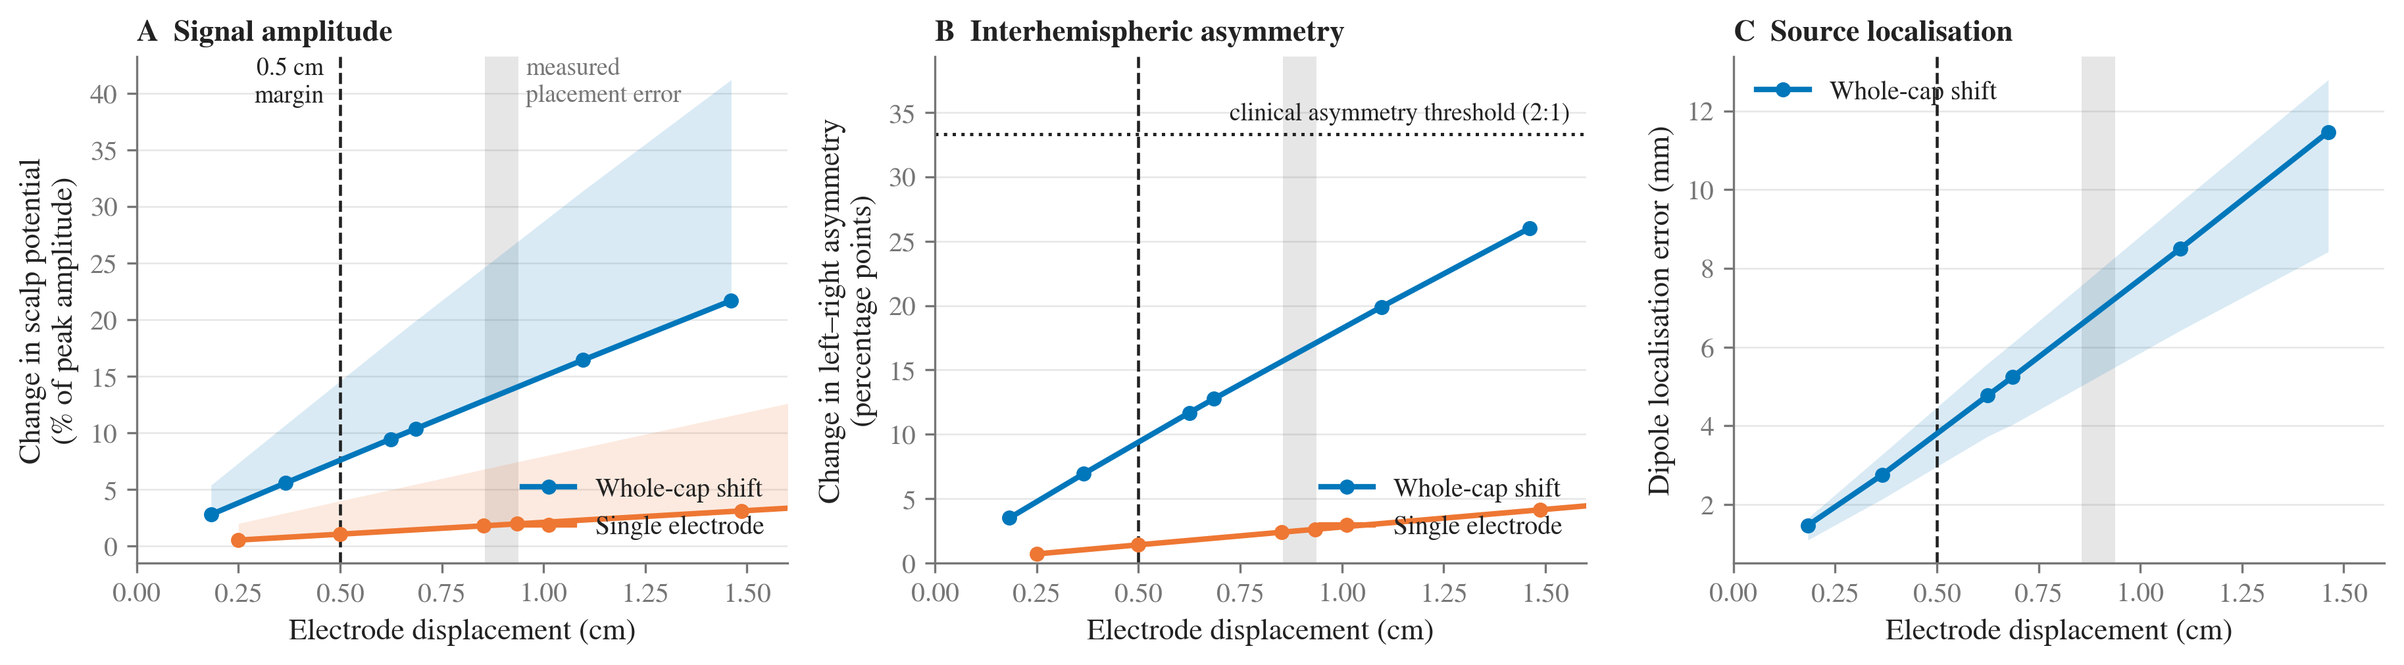
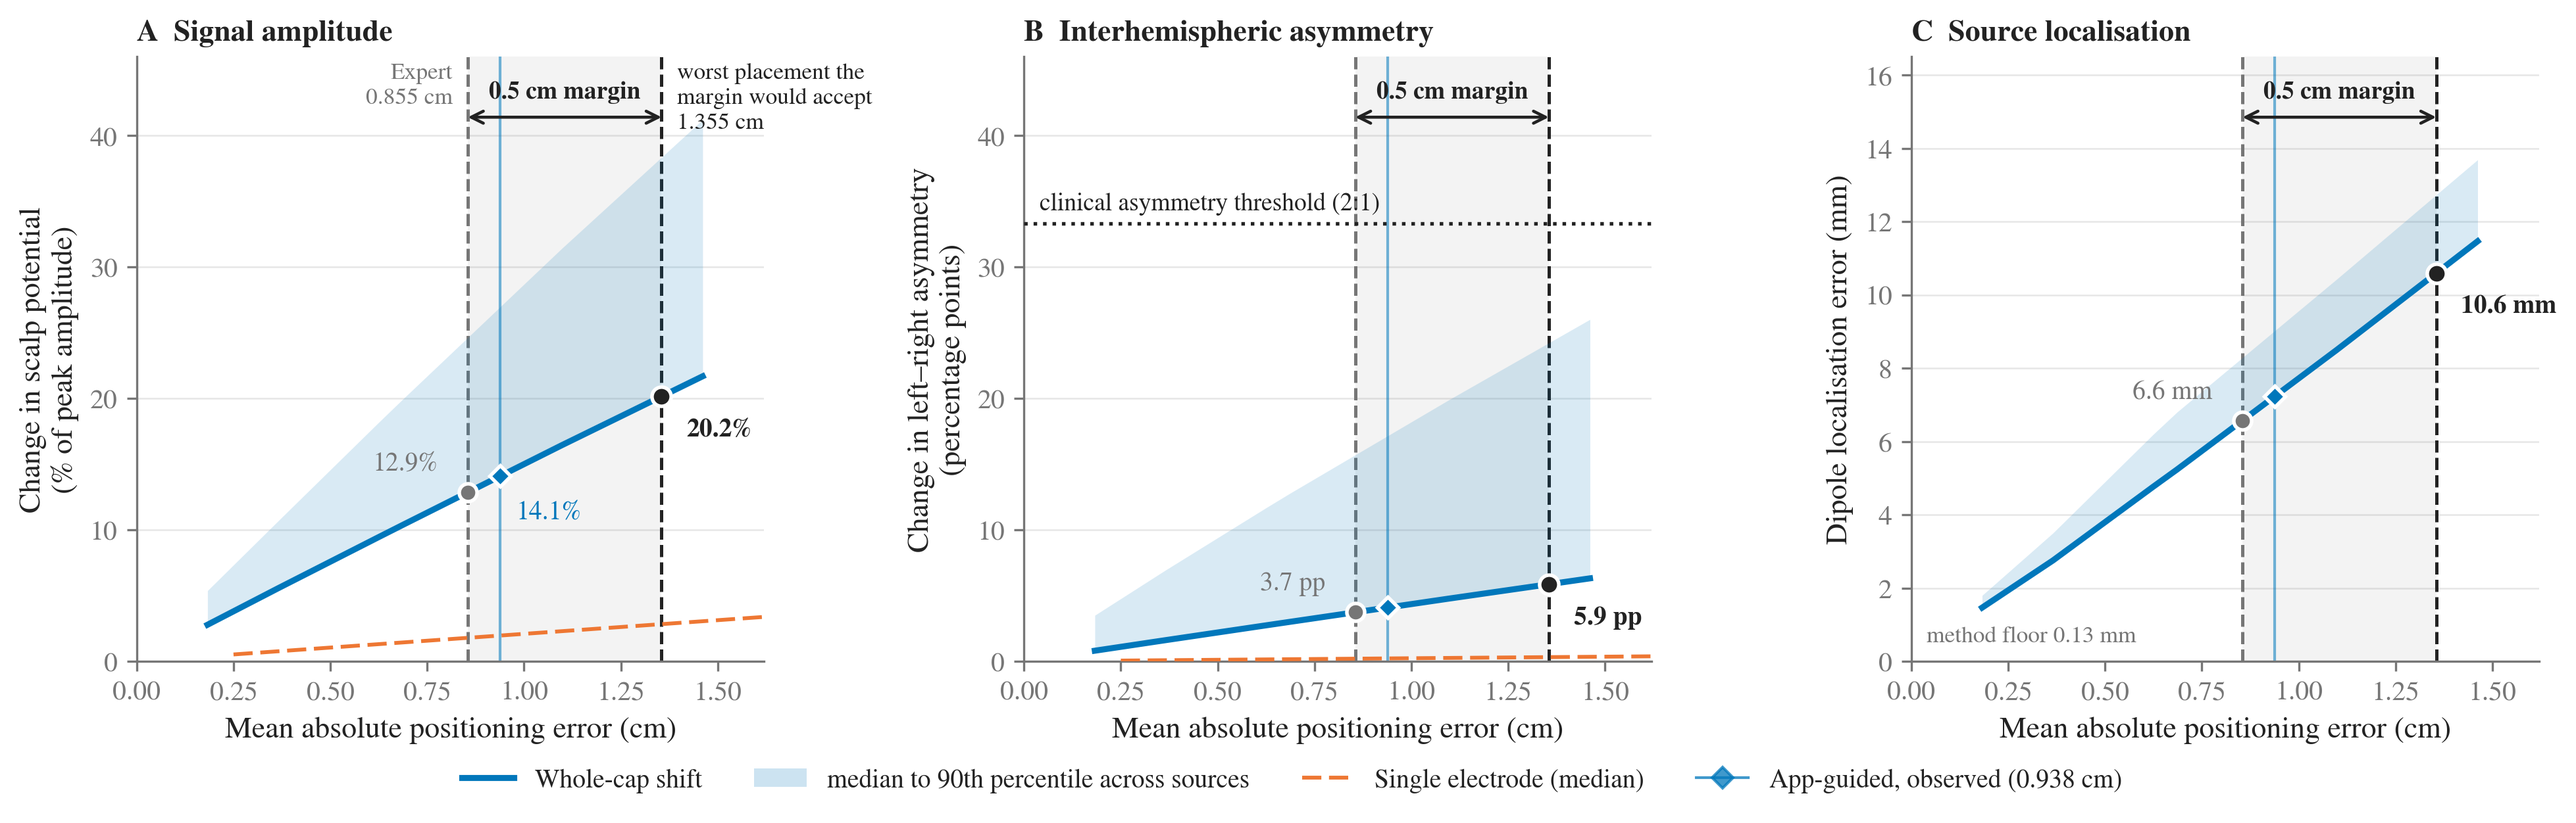
Update forward-model supplementary analysis to margin-sensitivity framing
report.py now evaluates the margin as a distance from the Expert MAE
(0.855 cm) to the worst placement it would still accept (1.355 cm),
rather than as an absolute displacement, and the figure/README follow.

diff --git a/forward_model/report.py b/forward_model/report.py
@@ -23,6 +23,8 @@ matplotlib.use("Agg")
 import matplotlib.pyplot as plt
 import numpy as np
 import pandas as pd
+from matplotlib.lines import Line2D
+from matplotlib.patches import Patch
 
 HERE = os.path.dirname(__file__)
 CACHE = os.path.join(HERE, "cache")
@@ -34,9 +36,15 @@ COLOR_SINGLE = "#EE7733"
 INK = "#222222"
 MUTED = "#767676"
 
+#: The margin is prespecified on the paired *difference* in mean absolute
+#: positioning error, Delta = MAE(App) - MAE(Expert), not on an absolute
+#: displacement. So the placement the margin would still accept as non-inferior
+#: is the Expert's own MAE plus the margin, and the margin itself is a distance
+#: *along* the x-axis rather than a point on it. The figure is drawn that way.
 MARGIN_CM = 0.5
 EXPERT_CM = 0.855
 APP_CM = 0.938
+LIMIT_CM = EXPERT_CM + MARGIN_CM
 
 #: A 2:1 left/right amplitude ratio - the usual threshold for calling an
 #: interhemispheric asymmetry - corresponds to an asymmetry index of 1/3.
@@ -61,24 +69,32 @@ STYLE = {
 
 
 def _curve(df: pd.DataFrame, value: str, spread: str | None = None,
-           x_col: str = "realised_mm_mean"):
+           x_col: str = "realised_mm_mean", scale: float = 100.0):
     """Mean across directions/targets at each displacement, sorted by x.
 
     `x_col` differs by mode. A cap shift moves every electrode, so the array
     mean is the right abscissa; a single-electrode displacement moves exactly
     one, so the array mean would divide the true displacement by the number of
     channels - use the max (that electrode's own displacement) instead.
+    `scale` converts the stored fraction to the plotted unit.
     """
     agg = {"realised": (x_col, "mean"), "y": (value, "mean")}
     if spread:
         agg["hi"] = (spread, "mean")
     out = df.groupby("magnitude_cm").agg(**agg).reset_index()
     out["x"] = out["realised"] / 10.0  # mm -> cm
-    return out.sort_values("x")
+    out = out.sort_values("x")
+    out.attrs["scale"] = scale
+    return out
 
 
 def interp(curve: pd.DataFrame, x: float, col: str = "y") -> float:
     return float(np.interp(x, curve["x"], curve[col]))
+
+
+def at(curve: pd.DataFrame, x: float, col: str = "y") -> float:
+    """Curve value at `x` in plotted units."""
+    return interp(curve, x, col) * curve.attrs["scale"]
 
 
 def linearity_check(curve: pd.DataFrame) -> float:
@@ -89,21 +105,62 @@ def linearity_check(curve: pd.DataFrame) -> float:
     return float(1 - resid.var() / y.var())
 
 
-def _reference_lines(ax, ymax: float, label: bool) -> None:
-    ax.axvspan(EXPERT_CM, APP_CM, color=MUTED, alpha=0.18, lw=0, zorder=0)
-    ax.axvline(MARGIN_CM, color=INK, ls="--", lw=1.1, zorder=1)
+def _margin_band(ax, label: bool) -> None:
+    """Draw the margin as what it is: a span on the x-axis.
+
+    Three marks, three different kinds of claim. Expert MAE is the reference
+    standard the study measures against; Expert + margin is the worst placement
+    the non-inferiority test would still accept; App-guided is what was actually
+    observed. The margin is the gap between the first two.
+    """
+    ymax = ax.get_ylim()[1]
+    ax.axvspan(EXPERT_CM, LIMIT_CM, color=INK, alpha=0.05, lw=0, zorder=0)
+    ax.axvline(EXPERT_CM, color=MUTED, ls="--", lw=1.2, zorder=1)
+    ax.axvline(LIMIT_CM, color=INK, ls="--", lw=1.2, zorder=1)
+    ax.axvline(APP_CM, color=COLOR_CAP, ls="-", lw=1.0, alpha=0.55, zorder=1)
+
+    y = ymax * 0.90
+    ax.annotate("", xy=(LIMIT_CM, y), xytext=(EXPERT_CM, y), zorder=6,
+                arrowprops=dict(arrowstyle="<->", color=INK, lw=1.1,
+                                shrinkA=0, shrinkB=0))
+    ax.annotate("0.5 cm margin", xy=((EXPERT_CM + LIMIT_CM) / 2, y),
+                xytext=(0, 5), textcoords="offset points", ha="center",
+                va="bottom", fontsize=9, weight="bold", color=INK, zorder=6)
     if label:
-        ax.annotate(
-            "0.5 cm\nmargin",
-            xy=(MARGIN_CM, ymax), xytext=(MARGIN_CM - 0.04, ymax),
-            ha="right", va="top", fontsize=9, color=INK, linespacing=1.25,
-        )
-        ax.annotate(
-            "measured\nplacement error",
-            xy=((EXPERT_CM + APP_CM) / 2, ymax),
-            xytext=((EXPERT_CM + APP_CM) / 2 + 0.06, ymax),
-            ha="left", va="top", fontsize=9, color=MUTED, linespacing=1.25,
-        )
+        ax.annotate("Expert\n0.855 cm", xy=(EXPERT_CM - 0.04, ymax * 0.99),
+                    ha="right", va="top", fontsize=8.5, color=MUTED,
+                    linespacing=1.25)
+        ax.annotate("worst placement the\nmargin would accept\n1.355 cm",
+                    xy=(LIMIT_CM + 0.04, ymax * 0.99), ha="left", va="top",
+                    fontsize=8.5, color=INK, linespacing=1.25)
+
+
+def _readouts(ax, curve, fmt: str, label_app: bool) -> None:
+    """Values on the cap curve at the three marked placements."""
+    pts = [(EXPERT_CM, MUTED, "o", 6.5, "normal"),
+           (APP_CM, COLOR_CAP, "D", 5.5, "normal"),
+           (LIMIT_CM, INK, "o", 7.0, "bold")]
+    for x, color, marker, size, weight in pts:
+        y = at(curve, x)
+        ax.plot([x], [y], marker=marker, ms=size, mfc=color, mec="white",
+                mew=1.3, zorder=6)
+        if marker == "D" and not label_app:
+            continue
+        # Expert and App-guided sit only 0.083 cm apart, so their labels are
+        # pushed to opposite sides of the curve rather than offset along it.
+        # The curves rise monotonically, so above-left and below-right are the
+        # only sides that stay clear of the line whatever the panel's scale:
+        # left of a point the curve is below it, right of it the curve is
+        # above. Every offset below must keep to those two quadrants - an
+        # above-right label is crossed by the line at slopes as gentle as
+        # panel A's, and buried by it at panel C's.
+        offsets = {EXPERT_CM: (-11, 6, "right", "bottom"),
+                   APP_CM: (6, -9, "left", "top"),
+                   LIMIT_CM: (9, -8, "left", "top")}
+        dx, dy, ha, va = offsets[x]
+        ax.annotate(fmt.format(y), xy=(x, y), xytext=(dx, dy),
+                    textcoords="offset points", ha=ha, va=va,
+                    fontsize=9.5, weight=weight, color=color, zorder=7)
 
 
 def build_figure(summary: pd.DataFrame, dipole: pd.DataFrame | None) -> dict:
@@ -111,108 +168,101 @@ def build_figure(summary: pd.DataFrame, dipole: pd.DataFrame | None) -> dict:
     single = summary[summary["mode"] == "single"]
 
     amp_cap = _curve(cap, "peak_rel_err_median", "peak_rel_err_p90")
-    amp_single = _curve(single, "peak_rel_err_median", "peak_rel_err_p90",
-                        x_col="realised_mm_max")
-    asy_cap = _curve(cap, "d_asymmetry_p90")
-    asy_single = _curve(single, "d_asymmetry_p90", x_col="realised_mm_max")
+    amp_single = _curve(single, "peak_rel_err_median", x_col="realised_mm_max")
+    asy_cap = _curve(cap, "d_asymmetry_median", "d_asymmetry_p90")
+    asy_single = _curve(single, "d_asymmetry_median", x_col="realised_mm_max")
 
     plt.rcParams.update(STYLE)
     n_panels = 3 if dipole is not None else 2
-    fig, axes = plt.subplots(1, n_panels, figsize=(4.1 * n_panels, 3.5))
+    fig, axes = plt.subplots(1, n_panels, figsize=(4.4 * n_panels, 4.0))
 
-    # ── Panel A: amplitude change ────────────────────────────────────────────
-    ax = axes[0]
-    for curve, color, name in (
-        (amp_cap, COLOR_CAP, "Whole-cap shift"),
-        (amp_single, COLOR_SINGLE, "Single electrode"),
-    ):
-        ax.fill_between(curve["x"], curve["y"] * 100, curve["hi"] * 100,
-                        color=color, alpha=0.15, lw=0)
-        ax.plot(curve["x"], curve["y"] * 100, color=color, lw=2,
-                marker="o", ms=4.5, label=name, zorder=3)
-    ax.set_xlabel("Electrode displacement (cm)")
-    ax.set_ylabel("Change in scalp potential\n(% of peak amplitude)")
-    ax.set_title("A  Signal amplitude", loc="left", weight="bold")
-    _reference_lines(ax, ax.get_ylim()[1], label=True)
-    ax.legend(frameon=False, loc="lower right")
+    def draw(ax, cap_curve, single_curve, ylabel, title, ylim, fmt, first):
+        ax.fill_between(cap_curve["x"],
+                        cap_curve["y"] * cap_curve.attrs["scale"],
+                        cap_curve["hi"] * cap_curve.attrs["scale"],
+                        color=COLOR_CAP, alpha=0.15, lw=0, zorder=2)
+        ax.plot(cap_curve["x"], cap_curve["y"] * cap_curve.attrs["scale"],
+                color=COLOR_CAP, lw=2.2, zorder=3, label="Whole-cap shift")
+        if single_curve is not None:
+            ax.plot(single_curve["x"],
+                    single_curve["y"] * single_curve.attrs["scale"],
+                    color=COLOR_SINGLE, lw=1.4, ls=(0, (5, 2)), zorder=3,
+                    label="Single electrode")
+        ax.set_xlabel("Mean absolute positioning error (cm)")
+        ax.set_ylabel(ylabel)
+        ax.set_title(title, loc="left", weight="bold")
+        ax.set_ylim(0, ylim)
+        _margin_band(ax, label=first)
+        _readouts(ax, cap_curve, fmt, label_app=first)
 
-    # ── Panel B: interhemispheric asymmetry ──────────────────────────────────
+    draw(axes[0], amp_cap, amp_single,
+         "Change in scalp potential\n(% of peak amplitude)",
+         "A  Signal amplitude", 46, "{:.1f}%", True)
+
     ax = axes[1]
-    for curve, color, name in (
-        (asy_cap, COLOR_CAP, "Whole-cap shift"),
-        (asy_single, COLOR_SINGLE, "Single electrode"),
-    ):
-        ax.plot(curve["x"], curve["y"] * 100, color=color, lw=2,
-                marker="o", ms=4.5, label=name, zorder=3)
-    ax.axhline(CLINICAL_ASYMMETRY_PP, color=INK, ls=":", lw=1.2)
-    ax.annotate(
-        "clinical asymmetry threshold (2:1)",
-        xy=(1.56, CLINICAL_ASYMMETRY_PP), xytext=(1.56, CLINICAL_ASYMMETRY_PP + 0.7),
-        fontsize=9, color=INK, va="bottom", ha="right",
-    )
-    ax.set_ylim(0, CLINICAL_ASYMMETRY_PP * 1.18)
-    ax.set_xlabel("Electrode displacement (cm)")
-    ax.set_ylabel("Change in left–right asymmetry\n(percentage points)")
-    ax.set_title("B  Interhemispheric asymmetry", loc="left", weight="bold")
-    _reference_lines(ax, ax.get_ylim()[1], label=False)
-    ax.legend(frameon=False, loc="lower right")
+    draw(ax, asy_cap, asy_single,
+         "Change in left\u2013right asymmetry\n(percentage points)",
+         "B  Interhemispheric asymmetry", CLINICAL_ASYMMETRY_PP * 1.38,
+         "{:.1f} pp", False)
+    ax.axhline(CLINICAL_ASYMMETRY_PP, color=INK, ls=":", lw=1.3, zorder=4)
+    ax.annotate("clinical asymmetry threshold (2:1)",
+                xy=(0.04, CLINICAL_ASYMMETRY_PP + 0.6), ha="left", va="bottom",
+                fontsize=9, color=INK, zorder=6)
 
     headline: dict = {}
-
-    # ── Panel C: dipole localisation error ───────────────────────────────────
     if dipole is not None:
-        ax = axes[2]
-        cap_fits = dipole[dipole["mode"] == "cap"]
-        stats = (
-            cap_fits.groupby("magnitude_cm")
-            .agg(
-                x=("realised_mm_mean", "mean"),
-                med=("error_mm", "median"),
-                lo=("error_mm", lambda s: s.quantile(0.25)),
-                hi=("error_mm", lambda s: s.quantile(0.75)),
-            )
-            .reset_index()
-        )
-        stats["x"] /= 10.0
-        stats = stats.sort_values("x")
-        ax.fill_between(stats["x"], stats["lo"], stats["hi"],
-                        color=COLOR_CAP, alpha=0.15, lw=0)
-        ax.plot(stats["x"], stats["med"], color=COLOR_CAP, lw=2,
-                marker="o", ms=4.5, label="Whole-cap shift", zorder=3)
-        ax.set_xlabel("Electrode displacement (cm)")
-        ax.set_ylabel("Dipole localisation error (mm)")
-        ax.set_title("C  Source localisation", loc="left", weight="bold")
-        _reference_lines(ax, ax.get_ylim()[1], label=False)
-        ax.legend(frameon=False, loc="upper left")
-        loc_curve = stats.rename(columns={"med": "y"})
-        headline["loc_margin_mm"] = interp(loc_curve, MARGIN_CM)
-        headline["loc_expert_mm"] = interp(loc_curve, EXPERT_CM)
-        headline["loc_app_mm"] = interp(loc_curve, APP_CM)
-        headline["loc_baseline_floor_mm"] = float(
-            dipole[dipole["mode"] == "baseline"]["error_mm"].mean()
-        )
+        st = (dipole[dipole["mode"] == "cap"].groupby("magnitude_cm")
+              .agg(realised=("realised_mm_mean", "mean"),
+                   y=("error_mm", "median"),
+                   hi=("error_mm", lambda s: s.quantile(0.90)))
+              .reset_index())
+        st["x"] = st["realised"] / 10.0
+        st = st.sort_values("x")
+        st.attrs["scale"] = 1.0
+        draw(axes[2], st, None, "Dipole localisation error (mm)",
+             "C  Source localisation", 16.5, "{:.1f} mm", False)
+        floor = float(dipole[dipole["mode"] == "baseline"]["error_mm"].mean())
+        axes[2].annotate(f"method floor {floor:.2f} mm", xy=(0.04, 0.4),
+                         fontsize=8.5, color=MUTED, ha="left", va="bottom")
+        headline.update({
+            "loc_expert_mm": at(st, EXPERT_CM),
+            "loc_app_mm": at(st, APP_CM),
+            "loc_limit_mm": at(st, LIMIT_CM),
+            "loc_increment_mm": at(st, LIMIT_CM) - at(st, EXPERT_CM),
+            "loc_baseline_floor_mm": floor,
+        })
 
     for ax in axes:
-        ax.set_xlim(0, 1.6)
+        ax.set_xlim(0, 1.62)
         ax.grid(axis="y", color=MUTED, alpha=0.18, lw=0.6)
         ax.set_axisbelow(True)
+
+    handles = [
+        Line2D([], [], color=COLOR_CAP, lw=2.2, label="Whole-cap shift"),
+        Patch(facecolor=COLOR_CAP, alpha=0.20, lw=0,
+              label="median to 90th percentile across sources"),
+        Line2D([], [], color=COLOR_SINGLE, lw=1.4, ls=(0, (5, 2)),
+               label="Single electrode (median)"),
+        Line2D([], [], color=COLOR_CAP, marker="D", ls="-", lw=1.0, ms=5.5,
+               alpha=0.75, label="App-guided, observed (0.938 cm)"),
+    ]
+    fig.legend(handles=handles, loc="lower center", ncol=4, frameon=False,
+               bbox_to_anchor=(0.5, -0.05), fontsize=9.5)
 
     fig.tight_layout()
     os.makedirs(os.path.dirname(FIGURE), exist_ok=True)
     fig.savefig(FIGURE, dpi=300, bbox_inches="tight")
     plt.close(fig)
 
-    headline.update({
-        "amp_margin_cap_pct": interp(amp_cap, MARGIN_CM) * 100,
-        "amp_expert_cap_pct": interp(amp_cap, EXPERT_CM) * 100,
-        "amp_app_cap_pct": interp(amp_cap, APP_CM) * 100,
-        "amp_margin_single_pct": interp(amp_single, MARGIN_CM) * 100,
-        "asy_margin_cap_pp": interp(asy_cap, MARGIN_CM) * 100,
-        "asy_expert_cap_pp": interp(asy_cap, EXPERT_CM) * 100,
-        "asy_app_cap_pp": interp(asy_cap, APP_CM) * 100,
-        "linearity_r2_amp_cap": linearity_check(amp_cap),
-        "linearity_r2_amp_single": linearity_check(amp_single),
-    })
+    for name, curve, unit in (("amp", amp_cap, 100), ("asy", asy_cap, 100)):
+        headline[f"{name}_expert"] = at(curve, EXPERT_CM)
+        headline[f"{name}_app"] = at(curve, APP_CM)
+        headline[f"{name}_limit"] = at(curve, LIMIT_CM)
+        headline[f"{name}_increment"] = at(curve, LIMIT_CM) - at(curve, EXPERT_CM)
+        headline[f"{name}_expert_p90"] = at(curve, EXPERT_CM, "hi")
+        headline[f"{name}_limit_p90"] = at(curve, LIMIT_CM, "hi")
+    headline["amp_single_at_2cm"] = at(amp_single, 2.0)
+    headline["linearity_r2_amp_cap"] = linearity_check(amp_cap)
     return headline
 
 

diff --git a/forward_model/README.md b/forward_model/README.md
@@ -44,17 +44,12 @@ the margin can be read against the study's own empirical baseline.
 ![Forward-model displacement curves](figures/forward_displacement.png)
 
 Every metric is linear in displacement over the range that matters (R² = 1.00),
-so the margin can be read straight off the curves. At **0.5 cm** a whole-cap
-shift changes scalp potential by 7.6 % of peak amplitude, moves the
-interhemispheric asymmetry index by 9.4 percentage points — well under the
-~33 pp that corresponds to a clinically called 2:1 asymmetry — and displaces a
-fitted dipole by 3.8 mm. The grey band marks the placement error actually
-measured in the trial (0.855 cm expert, 0.938 cm app-guided), where the same
-three quantities reach 12.9–14.1 %, 15.7–17.1 pp and 6.6–7.2 mm. The 0.5 cm
-margin is therefore stricter than the accuracy either arm achieved in practice,
-and the signal-level consequence of missing it by that much is small.
-
-Reprint these numbers with `python3 report.py`.
+so the margin can be read straight off the curves. The dashed lines mark the
+Expert error measured in this study (0.855 cm) and the least accurate
+placement the margin would still accept (0.855 + 0.5 = 1.355 cm); the diamond
+is the App-guided error actually observed (0.938 cm). This is Supplementary
+Material 5 of the paper; run `python3 report.py` to reprint the headline
+numbers behind the figure.
 
 ## Files
 
@@ -67,9 +62,9 @@ Reprint these numbers with `python3 report.py`.
 | `report.py` | Supplementary figure + headline numbers |
 
 ```bash
-python3 forward.py      # ~3 min,  writes cache/leadfield.npz (~58 MB)
+python3 forward.py      # ~3 min, writes cache/leadfield.npz (~58 MB)
 python3 dipole_fit.py   # ~20 min, writes cache/dipole_fit.csv
-python3 report.py       # ~2 s,    writes figures/forward_displacement.png
+python3 report.py       # writes figures/forward_displacement.png
 ```
 
 `cache/summary.csv` and `cache/dipole_fit.csv` are committed, so `report.py`
@@ -78,8 +73,8 @@ in a couple of seconds. Only the 58 MB leadfield is left out of the repository;
 run `forward.py` and `dipole_fit.py` to rebuild the whole chain from the
 template head.
 
-Requires `mne` and the fsaverage dataset, fetched automatically to
-`~/mne_data/` on first run. No MRI, FreeSurfer or GPU needed.
+Requires `mne` (already in the repo `.venv`) and the fsaverage dataset, fetched
+automatically to `~/mne_data/` on first run. No MRI, FreeSurfer or GPU needed.
 
 ## Design notes worth knowing before editing
 
